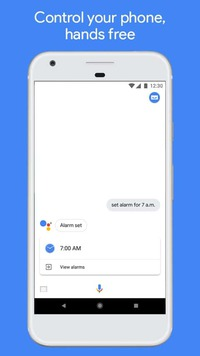
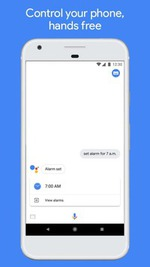
resizing and newline

diff --git a/PITCHME.md b/PITCHME.md
@@ -91,6 +91,8 @@ chmod ugo+x ngrok
 
 ### Amazon's Product offerings:
 ![Alexa](images/alexa.jpg)  
+
+
 Main ones are Echo and Echo Show  
 Personally have not messed with the Echo Show, but I'd like to
 ---
@@ -108,6 +110,8 @@ Personally have not messed with the Echo Show, but I'd like to
 ---
 ### Google Assistant
 ![Assistant](images/assistant.jpg)  
+---
+### Google Assistant continued
 @ul
 - Lots more flexibility with mobile devices  
 - You can display stuff, and interact with more data since Google saves everything
